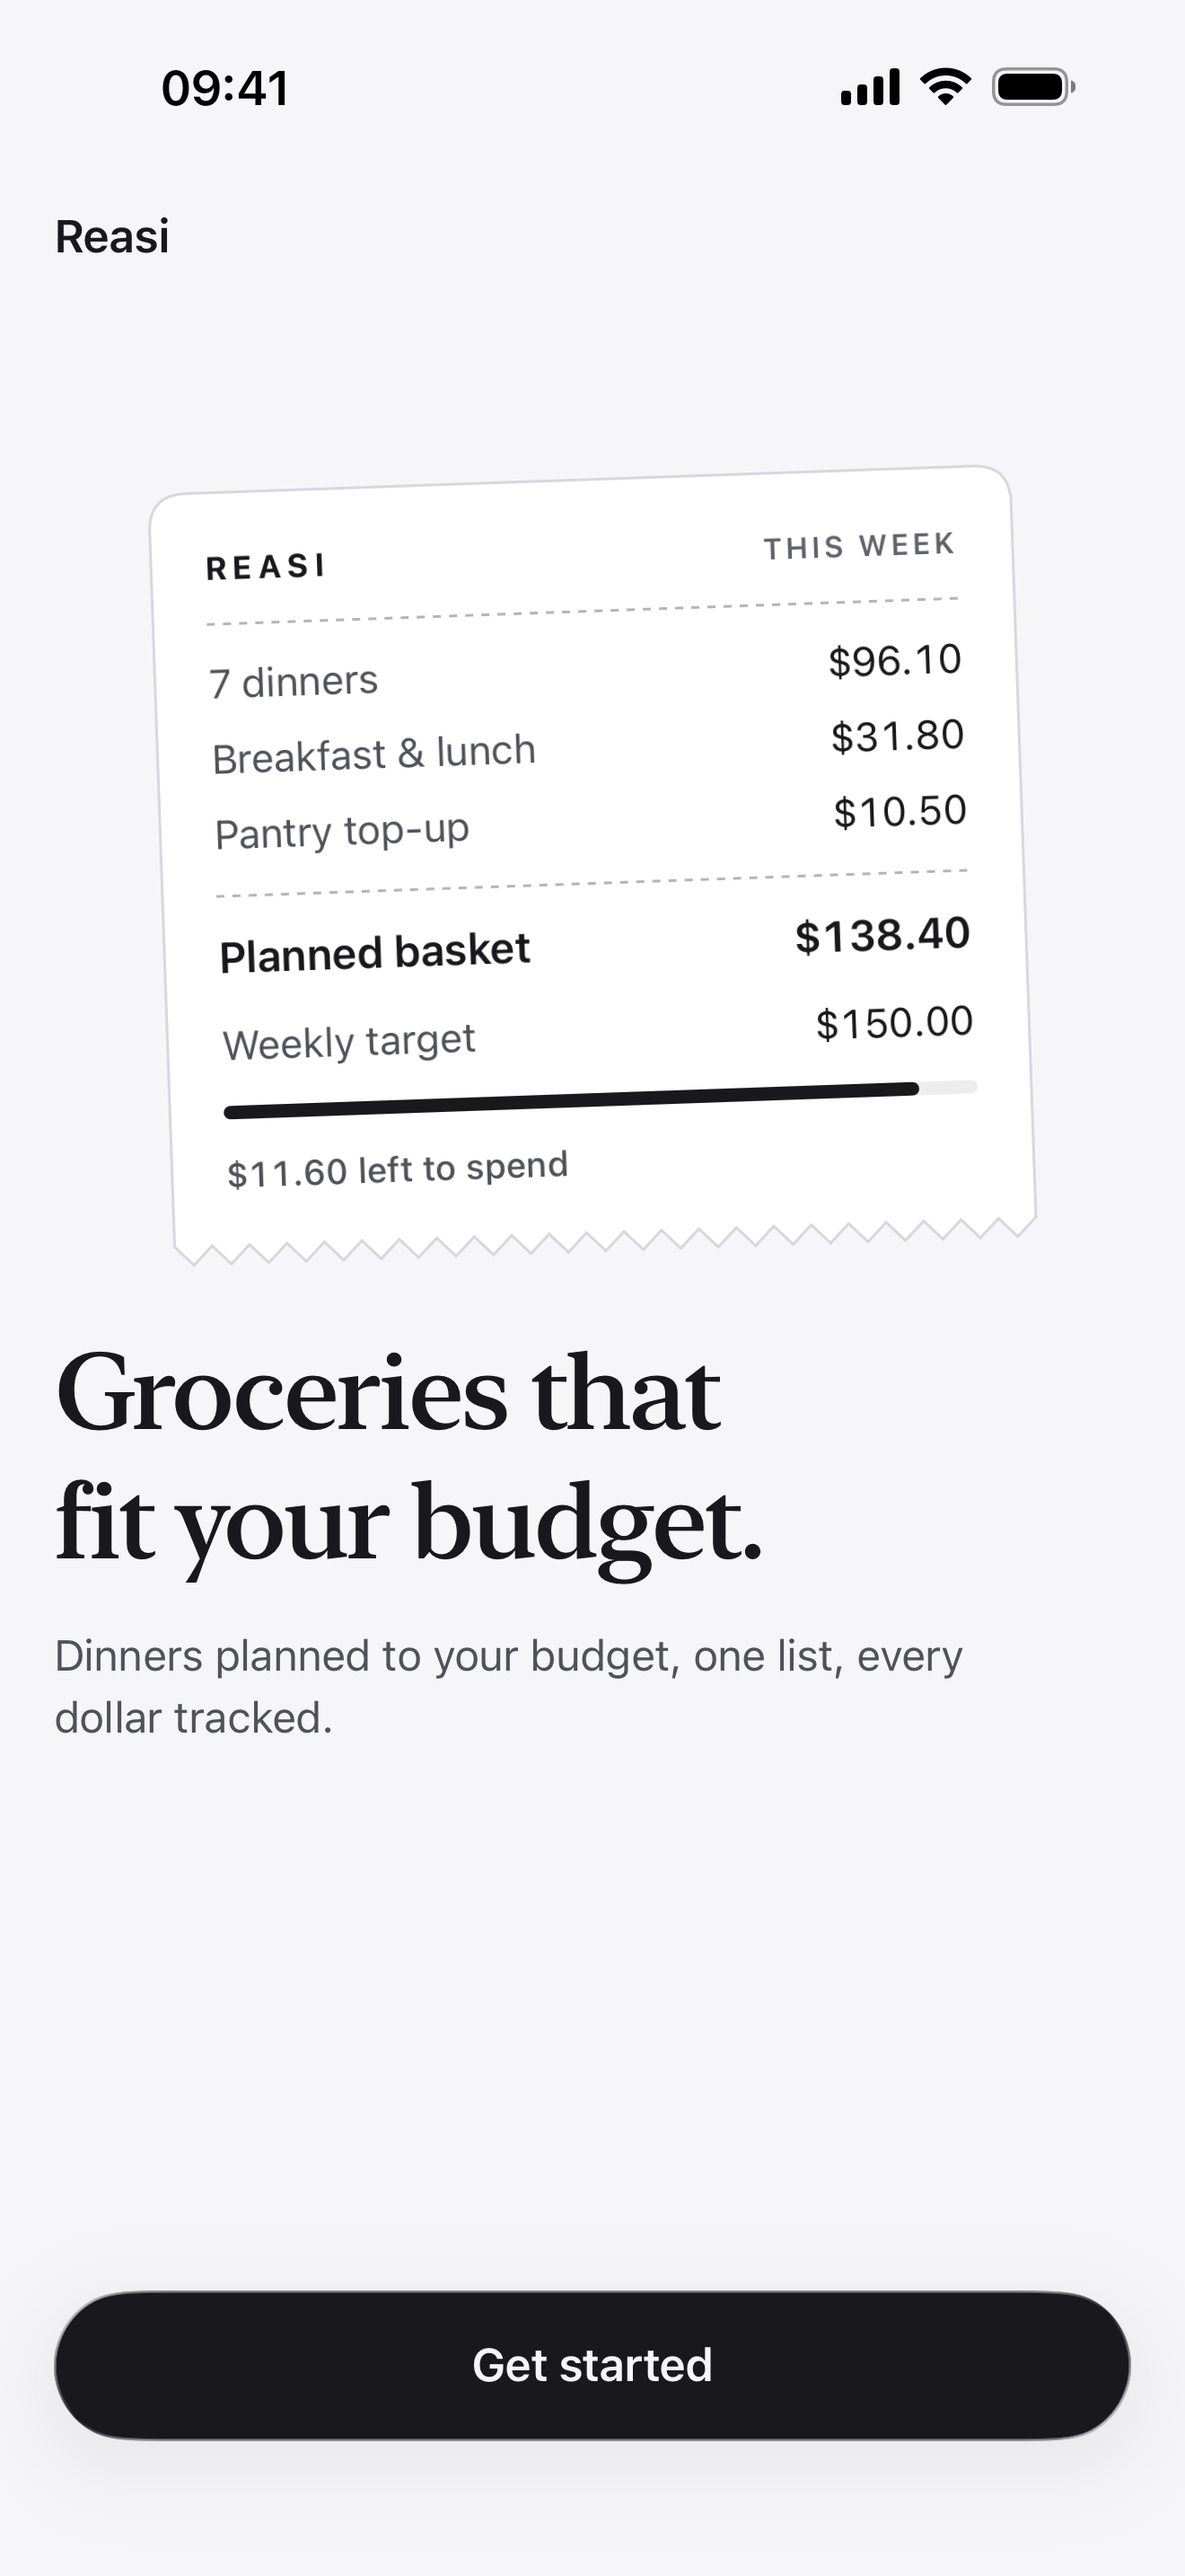
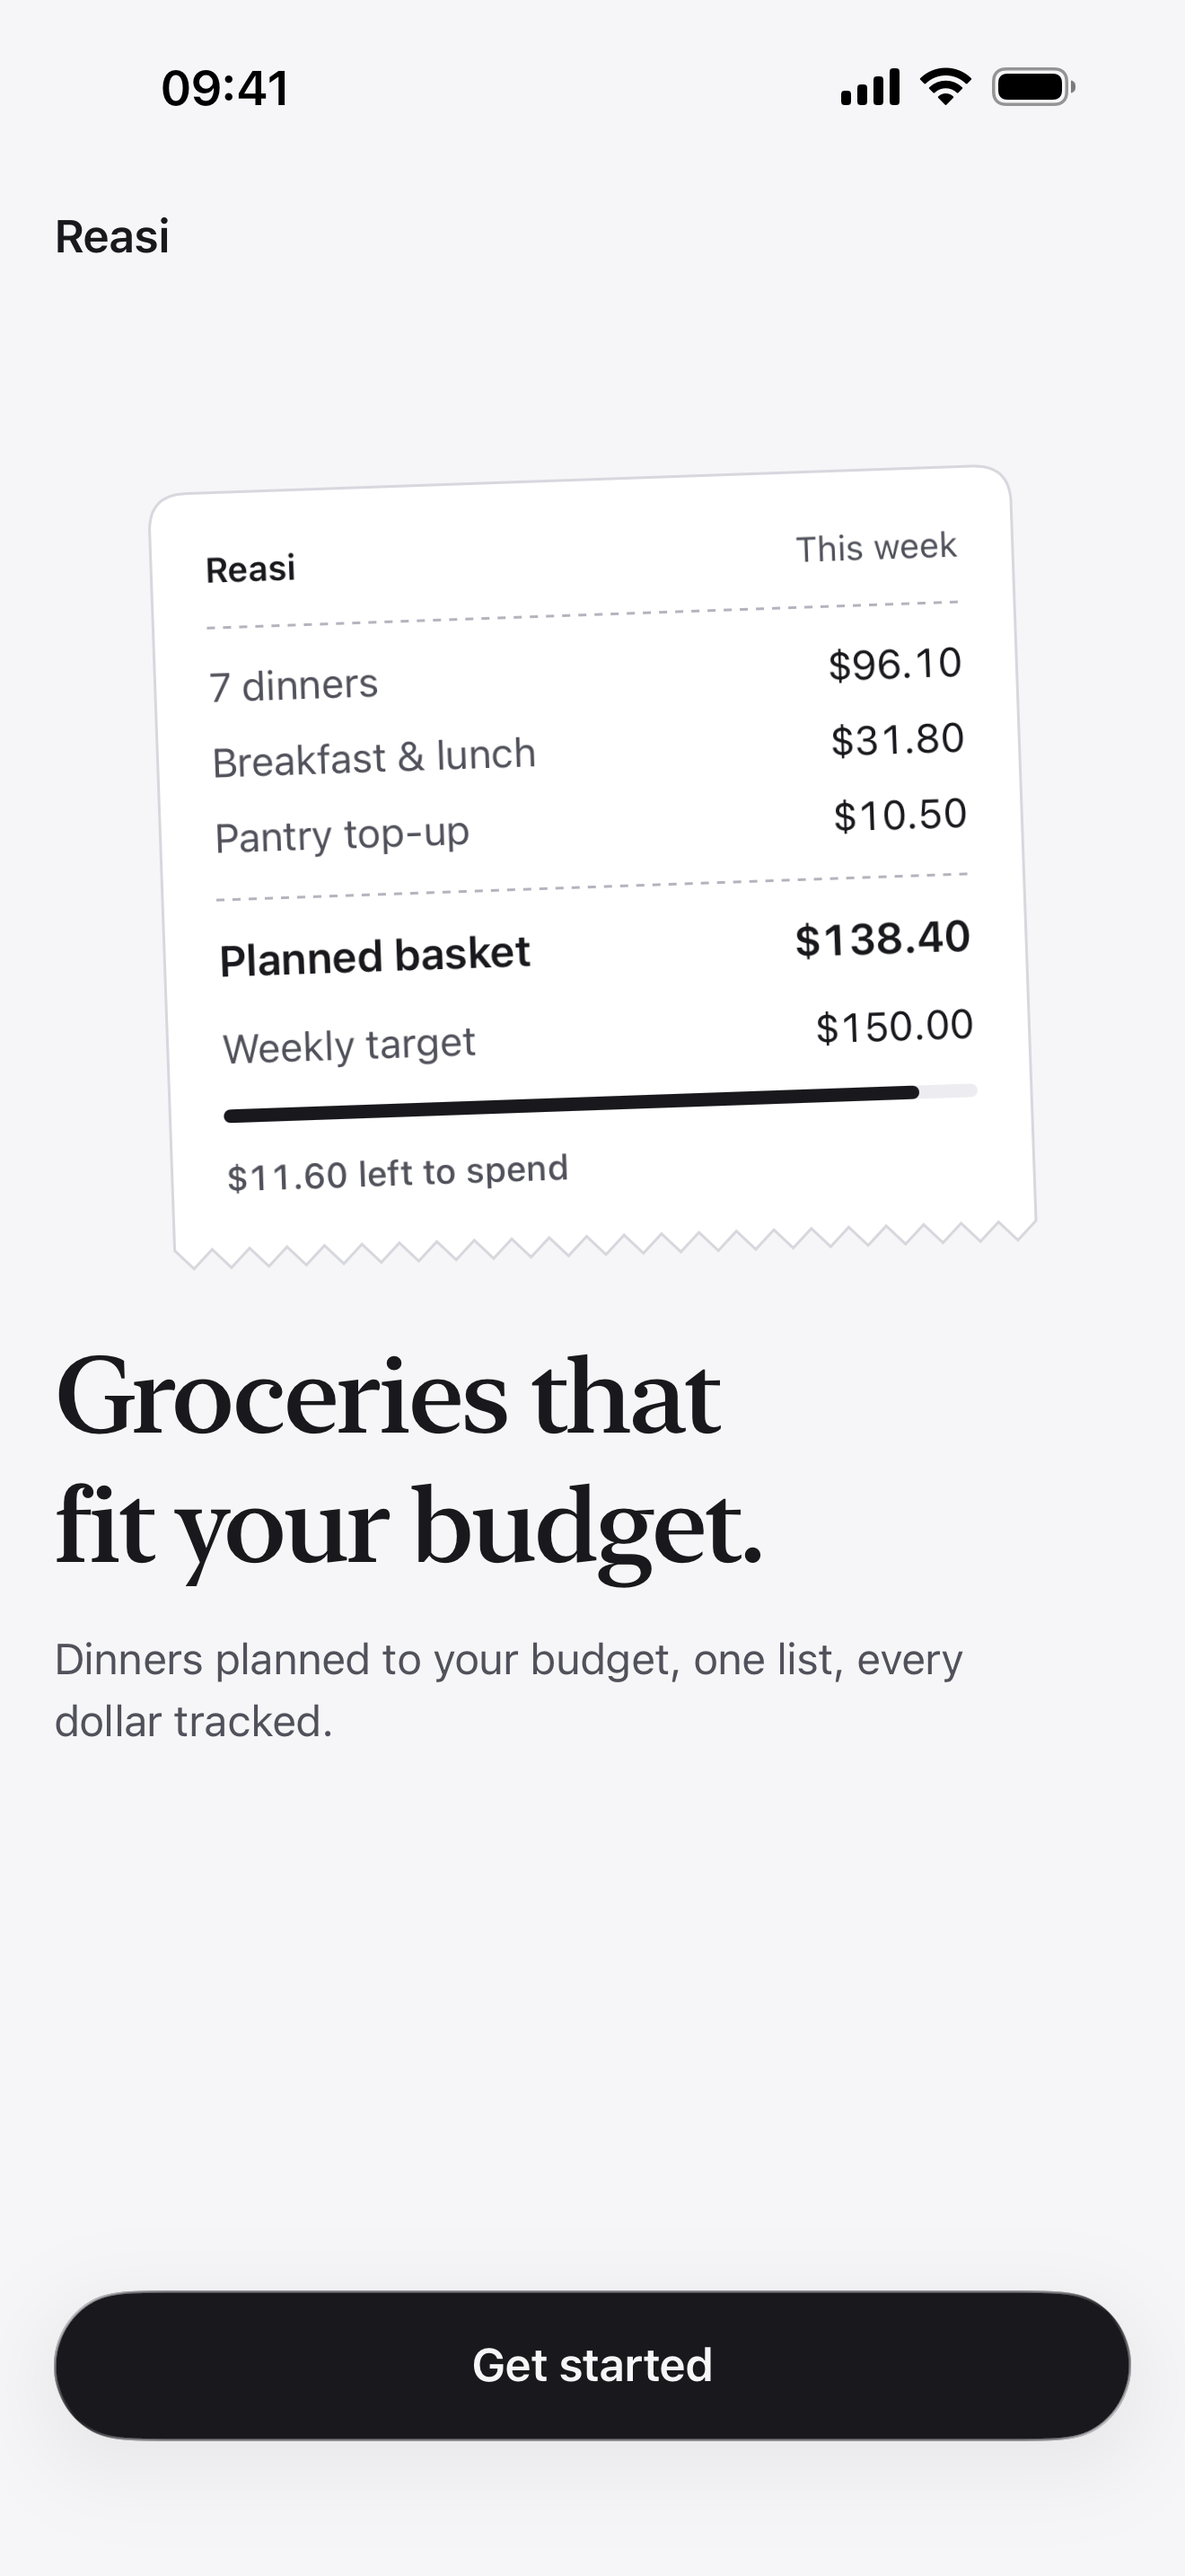
Bring Smart Basket into the playbook and fix two things it exposed
- The primary button's tap target and VoiceOver focus area are the whole
  capsule. With the glass style it had shrunk to the label's text.
- The Smart Basket sheet's bottom bar lets content scroll beneath it, like
  the other screens.
- UI tests: open a tab through a helper that first restores a tab bar the
  system has shrunk after scrolling (seen on the 390-pt iPhone 17e).
- Recapture the App Store screenshots and update the launch notes for the
  Smart Basket merge, its undeployed backend, and the new archive.

diff --git a/ReasiUITests/ReasiOnboardingUITests.swift b/ReasiUITests/ReasiOnboardingUITests.swift
@@ -365,7 +365,7 @@ final class ReasiOnboardingUITests: XCTestCase {
         back.tap()
         XCTAssertTrue(app.staticTexts["Shopping list"].waitForExistence(timeout: 3))
         assertAppearance(.light, in: app, name: "Shopping Light")
-        app.buttons["Spend"].tap()
+        openTab("Spend", in: app)
         XCTAssertTrue(app.staticTexts["Current list"].waitForExistence(timeout: 3))
         assertAppearance(.light, in: app, name: "Spend Light")
 
@@ -483,6 +483,20 @@ final class ReasiOnboardingUITests: XCTestCase {
         XCTAssertTrue(toggle.waitForExistence(timeout: 3))
         XCTAssertEqual(toggle.value as? String, editedValue)
         toggle.coordinate(withNormalizedOffset: CGVector(dx: 0.9, dy: 0.5)).tap()
+    }
+
+    /// Taps a tab, first restoring the tab bar if scrolling has shrunk it to the current tab alone.
+    @MainActor
+    private func openTab(_ title: String, in app: XCUIApplication) {
+        let tab = app.tabBars.buttons[title]
+        if !tab.waitForExistence(timeout: 1) {
+            // The shrunken bar shows only the current tab, marked "Collapsed"; tapping it opens the bar.
+            let collapsed = app.tabBars.buttons.matching(NSPredicate(format: "value CONTAINS[c] 'Collapsed'")).firstMatch
+            XCTAssertTrue(collapsed.waitForExistence(timeout: 2), "A shrunken tab bar should still show the current tab")
+            collapsed.tap()
+        }
+        XCTAssertTrue(tab.waitForExistence(timeout: 3), "The \(title) tab should be reachable")
+        tab.tap()
     }
 
     @MainActor

diff --git a/Reasi/Features/ShoppingList/SmartBasketSheet.swift b/Reasi/Features/ShoppingList/SmartBasketSheet.swift
@@ -58,7 +58,7 @@ struct SmartBasketSheet: View {
                     .padding(ReasiSpacing.s5)
                     .frame(maxWidth: .infinity, alignment: .leading)
                 }
-                .safeAreaInset(edge: .bottom, spacing: 0) {
+                .safeAreaBar(edge: .bottom, spacing: 0) {
                     applyFooter(now: timeline.date)
                 }
             }
@@ -350,6 +350,5 @@ struct SmartBasketSheet: View {
             .accessibilityIdentifier("smart-basket-apply")
         }
         .padding(ReasiSpacing.s4)
-        .background(Color.reasi.background)
     }
 }

diff --git a/Reasi/DesignSystem/ReasiPressStyle.swift b/Reasi/DesignSystem/ReasiPressStyle.swift
@@ -23,6 +23,8 @@ struct ReasiPrimaryButtonStyle: ButtonStyle {
             .padding(.horizontal, ReasiSpacing.s5)
             .frame(maxWidth: .infinity)
             .frame(minHeight: 56, maxHeight: allowsMultiline ? nil : 56)
+            // The whole capsule is the tap target and the VoiceOver focus area, not just the words.
+            .contentShape([.interaction, .accessibility], .capsule)
             .glassEffect(.regular.tint(Color.reasi.text).interactive(), in: .capsule)
             .opacity(configuration.isPressed ? 0.92 : 1)
     }

diff --git a/docs/launch-readiness-2026-11-11.md b/docs/launch-readiness-2026-11-11.md
@@ -1,6 +1,6 @@
 # Reasi 1.0 launch readiness, 11 Nov 2026
 
-Branch: `codex/app-store-launch`, from `origin/main` at 0b37702 (TestFlight build 12). Build number is now 14. Build 13 was archived but never uploaded, and it doesn't have the 12 Nov design changes.
+Branch: `codex/app-store-launch`, from `origin/main` at 0b37702 (TestFlight build 12), merged as #47. The 12 Nov design playbook round is on `codex/design-playbook`, from `origin/main` at 9eec0d1 (after Smart Basket, #46). Build number is now 14. Build 13 was archived but never uploaded, and it doesn't have the 12 Nov design changes.
 
 ## What this branch changes in the app
 
@@ -46,8 +46,9 @@ Branch: `codex/app-store-launch`, from `origin/main` at 0b37702 (TestFlight buil
   - List rows without a product photo show an aisle symbol from the item's name, then its aisle: leaf for spinach, fish for salmon, fridge for milk, snowflake for frozen, and a basket when nothing matches. Keywords must start a word, so "steak" isn't tea and "foil" isn't oil. Unit tests cover this.
 - **Design playbook applied (12 Nov).** `docs/design-playbook.md` sets the rules, drawn from Apple's Human Interface Guidelines and Liquid Glass adoption guide.
   - Type: Inter is gone from the interface. Titles, section headings, dish names and big money figures are New York (Apple's serif); everything else is San Francisco, all in built-in text styles. One switch, `ReasiTypography.displayDesign`, turns the serif off. The Inter font files are still in the bundle until the look is signed off.
-  - Liquid Glass, on controls only: the primary button is ink-tinted glass; the List's "Swipe to finish" and assistant button are one glass group in capsule and circle shapes; the bottom action bars on the List, plan builder, product search and photo review no longer have opaque strips, so content scrolls beneath them (onboarding keeps its plain bar); custom bar backgrounds are removed; Shop recap and tip detail use the system bar with its glass back button.
+  - Liquid Glass, on controls only: the primary button is ink-tinted glass; the List's "Swipe to finish" and assistant button are one glass group in capsule and circle shapes; the bottom action bars on the List, plan builder, product search, photo review and Smart Basket no longer have opaque strips, so content scrolls beneath them (onboarding keeps its plain bar); custom bar backgrounds are removed; Shop recap and tip detail use the system bar with its glass back button.
   - Less chrome: Plans is one list with hairlines and photos rather than seven boxed cards; days read "Mon" and "Today" instead of capitals; the paywall badge and the welcome receipt are sentence case.
+  - The primary button's tap target and VoiceOver focus area are the whole capsule, not just its words. The Smart Basket sheet follows the same bottom-bar rule as the other screens.
 - **Fewer words (12 Nov).** Screens keep numbers and names and drop the explanations.
   - List: the summary is the total, "2 of 20" and one short line ("3 unpriced", "Prices from 9 Oct"). The label above the total and the "Tap the circle…" hint are gone; VoiceOver still names the total. Usuals tiles show name, size and price only.
   - Home: "$33.60 left of $120", "Current list", "7 dinners · 20 items", and the store row is just the store name.
@@ -109,7 +110,7 @@ Every Wednesday price refresh since 14 Oct has failed. Since 28 Oct, Coles has a
 
 ### 5. Open pull requests
 
-- **iOS #46 (Smart Basket)** ships without an on/off switch, and its backend (reasi-backend #29–#33) isn't deployed. Keep it out of 1.0, or deploy that backend first.
+- **iOS #46 (Smart Basket)** was merged on 16 Nov, so every build from `main` now has Smart Basket in the List's ⋯ menu. It has no on/off switch, and its backend isn't live: the app calls `saving-basket-preview` and `saving-basket-apply`, neither is deployed to production, and reasi-backend #32 and #33 are still open. Until they are deployed, a signed-in shopper who taps Smart Basket gets an error. Deploy that backend before submitting, or hide the menu item for 1.0.
 - **iOS #45 (reliability fixes)** needs its paired backend deployed. It also conflicts with #46.
 - **iOS #42** is a stale draft that #44 has largely replaced.
 
@@ -122,7 +123,7 @@ Every Wednesday price refresh since 14 Oct has failed. Since 28 Oct, Coles has a
 
 ### 7. Final build
 
-**Archived on 12 Nov 2026.** Build `1.0.0 (14)` is in Xcode Organizer as `Reasi-1.0.0-14.xcarchive` and passes the release preflight. Upload this one, not `Reasi-1.0.0-13.xcarchive`, which predates the 12 Nov design changes. In Organizer, choose Validate App, then Distribute App > App Store Connect, once the App Store Connect record and agreements are in place. The App Store screenshots in `docs/app-store-screenshots/` were recaptured from this design on the same day.
+**Archived on 16 Nov 2026.** Build `1.0.0 (14)` is in Xcode Organizer as `Reasi-1.0.0-14.xcarchive` (under 2026-11-16) and passes the release preflight. It is built from `codex/design-playbook`, so it includes Smart Basket. Upload this one, not the 12 Nov archives of the same number or `Reasi-1.0.0-13.xcarchive`. In Organizer, choose Validate App, then Distribute App > App Store Connect, once the App Store Connect record and agreements are in place. The App Store screenshots in `docs/app-store-screenshots/` were recaptured from this design on the same day. Tests on this code: 104 unit and 23 UI tests pass on the iPhone 17e simulator.
 
 CI note: PR #47's `iOS Release build` run stayed queued with no job created, because GitHub never assigned a `macos-26` hosted runner. The same workflow ran on 11 Oct. If it is still queued, re-run it from the Actions tab.
 
